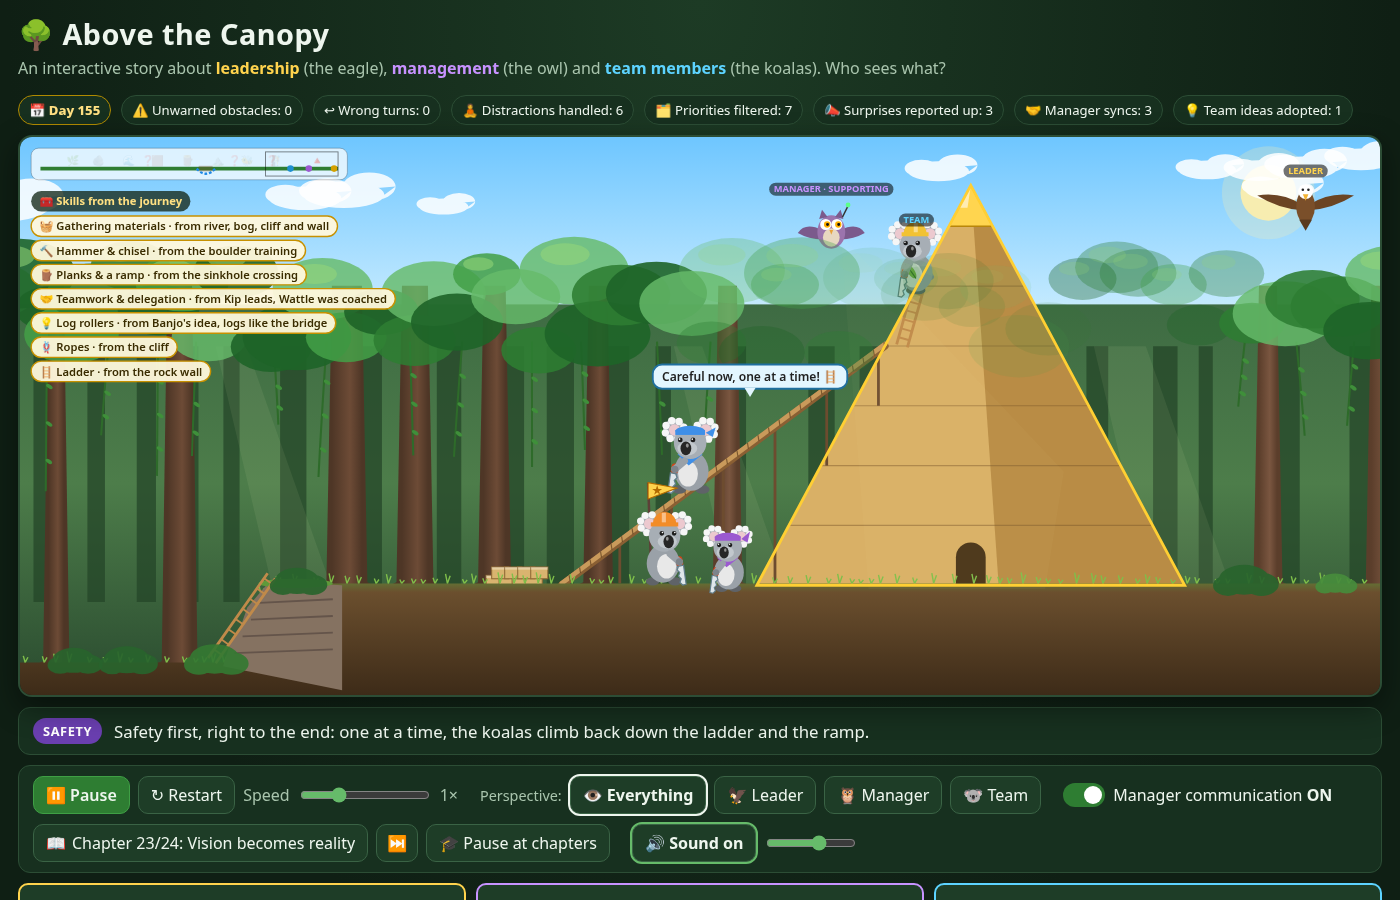
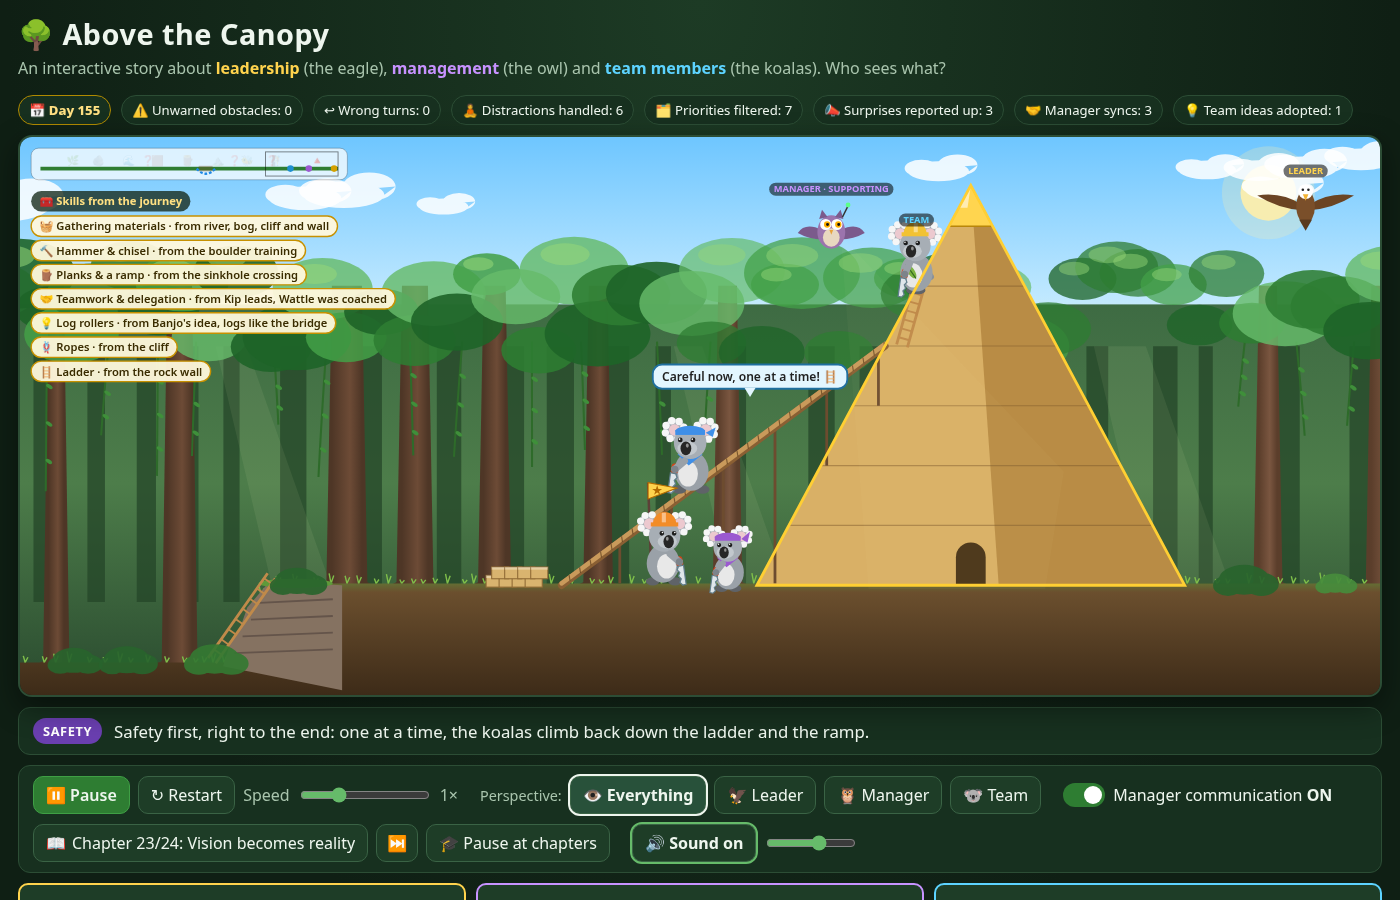
v7.2: pyramid in front of the canopy, dialogue filtered by perspective
- Build site (pyramid, koalas, gear, owl) drawn after the canopy so no leaves cut across the pyramid at any stage; vision overlay stays on top
- Leader/Manager/Team perspectives draw only that role's speech bubbles (simulation unchanged; captions and pulses kept); banner hint
- README, help text and docs images updated

diff --git a/src/AboveTheCanopy/wwwroot/js/canopy.js b/src/AboveTheCanopy/wwwroot/js/canopy.js
@@ -1761,7 +1761,7 @@ function drawCanopy() {
   const cols = ['rgba(46,125,50,0.88)', 'rgba(67,160,71,0.86)', 'rgba(30,100,40,0.9)', 'rgba(102,187,106,0.82)'];
   const thinK = S.build.on ? clamp((S.t - S.build.t0) / 2, 0, 1) : 0;
   // over the build site the leaves thin out (most of all around the top, where the koalas end up) so the build stays visible
-  const thinA = bx => { if (!thinK) return 1; const d = Math.abs(bx - GOAL_X); return d < 110 ? lerp(1, 0.14, thinK) : d < PYR_HALF + 60 ? lerp(1, 0.4, thinK) : 1; };
+  const thinA = bx => { if (!thinK) return 1; const d = Math.abs(bx - GOAL_X); return d < PYR_HALF + 60 ? lerp(1, 0.85, thinK) : 1; }; // v7.2: just a light thinning now; layering keeps the pyramid in front
   for (const b of deco.blobs) {
     const x = b.x - camX; if (x < -80 || x > viewW + 80) continue;
     ctx.globalAlpha = thinA(b.x);
@@ -1840,11 +1840,16 @@ function drawPulses() {
   }
 }
 
+// Which speakers' bubbles each perspective shows ('visitor' is the visiting owl in a manager meeting; the visiting
+// eagles in the Leader's meetings speak through their priority cards, which stay visible).
+const BUBBLE_VIEW = { all: null, leader: ['leader'], manager: ['manager', 'visitor'], team: ['team'] };
 function drawBubbles() {
   const cols = { leader: ['#fff7d6', '#b08a00'], manager: ['#f3e8ff', '#7b3fb0'], team: ['#e3f6ff', '#1f6f9f'],
     visitor: S.mgr.meeting ? [S.mgr.meeting.def.belly, S.mgr.meeting.def.body] : ['#eee', '#777'] };
   ctx.font = '600 13px system-ui, sans-serif';
+  const only = BUBBLE_VIEW[settings.view]; // v7.2: each perspective shows only that role's dialogue
   for (const b of S.bubbles) {
+    if (only && !only.includes(b.who)) continue;
     const p = agentPos(b.who);
     if (p.x - camX < -30 || p.x - camX > viewW + 30) continue; // speaker is off-screen
     const a = Math.min(1, b.t * 4, (b.dur - b.t) * 3);
@@ -1915,10 +1920,14 @@ function drawViewBanner() {
     manager: '🦉 MANAGER VIEW: sees the obstacles ahead, but not the far-off goal',
     team: '🐨 TEAM VIEW: the koalas see only what\'s right in front of them',
   }[v];
+  const hint = { leader: '💬 Showing only the Leader\'s dialogue', manager: '💬 Showing only the Manager\'s dialogue', team: '💬 Showing only the koalas\' dialogue' }[v];
   ctx.font = 'bold 14px system-ui, sans-serif';
-  const w = ctx.measureText(text).width + 24;
-  ctx.fillStyle = 'rgba(0,0,0,0.6)'; rr(12, H - 40, w, 28, 14); ctx.fill();
-  ctx.fillStyle = '#fff'; ctx.fillText(text, 24, H - 21);
+  const w1 = ctx.measureText(text).width;
+  ctx.font = '600 12px system-ui, sans-serif';
+  const w = Math.max(w1, ctx.measureText(hint).width) + 24;
+  ctx.fillStyle = 'rgba(0,0,0,0.6)'; rr(12, H - 58, w, 46, 14); ctx.fill();
+  ctx.fillStyle = '#fff'; ctx.font = 'bold 14px system-ui, sans-serif'; ctx.fillText(text, 24, H - 39);
+  ctx.fillStyle = '#ffe082'; ctx.font = '600 12px system-ui, sans-serif'; ctx.fillText(hint, 24, H - 20);
 }
 
 function frame(ts) {
@@ -2901,7 +2910,6 @@ function render() {
   drawSky();
   drawUnderstory();
   drawTrunks();
-  drawBuild();
   drawHangingVines();
   drawRiver(false);
   drawGround();
@@ -2914,8 +2922,10 @@ function render() {
   drawSurprises();
   drawCreek();
   drawLantana();
-  drawTeam();
-  drawBuildFront();
+  // v7.2: once the build starts, the pyramid and everyone working on it are drawn after the canopy (see below),
+  // so no leaves, trunks or light shafts ever cut across it.
+  const site = S.build.on;
+  if (!site) drawTeam();
   drawSurpriseMarkers();
   drawBees(true);
   drawRiver(true);
@@ -2925,11 +2935,15 @@ function render() {
   drawPathBushes();
   drawRubble();
   drawSurprises(true);
-  drawKoalaLabels();
+  if (!site) drawKoalaLabels();
   drawDrop('gap');
-  drawManager();
+  if (!site) drawManager();
   drawMgrMeeting();
   drawCanopy();
+  // The build site, in front of the canopy behind it: pyramid (courses, casing, cap, ramp, ladder, pile), then the koalas
+  // and the gear they're carrying, then the owl helping out. The vision outline goes on top, like a blueprint overlay.
+  drawBuild();
+  if (site) { drawTeam(); drawBuildFront(); drawKoalaLabels(); drawManager(); }
   drawVision();
   drawDrop('crate');
   drawLeafFly();

diff --git a/README.md b/README.md
@@ -22,7 +22,7 @@ Nobody can see the whole picture on their own:
 - The **team** can see neither. They're down in the bush doing the work.
 
 The journey works when vision flows down (leader ➜ manager), warnings and plans flow down to the team (manager ➜ team), and requests and progress flow back up (team ➜ manager ➜ leader).
-Use the **Perspective** buttons to see the world through each role's eyes, and turn **Manager communication OFF**
+Use the **Perspective** buttons to see the world through each role's eyes (each view also shows only that role's speech bubbles, so you can rewatch with one perspective to focus on that role's communication), and turn **Manager communication OFF**
 to watch the same koalas in the same forest get surprised, take wrong turns and take much longer (about 202 days instead of about 157), and even build the wrong shape.
 
 ## What happens on the journey
@@ -120,6 +120,26 @@ sweat drops fly, and they slow right down to the finish (😓 **EXHAUSTED**). Th
 (meetings, surprises, coaching, course corrections) are never cut off by routine narration.
 
 **Rubble stays.** After the boulder is broken up, the rubble is swept to the side of the path and stays visible.
+
+## New in v7.2: dialogue by perspective
+
+Each perspective now shows only that role's speech bubbles, so you can **rewatch the story with one perspective to focus on that role's communication**:
+
+| Perspective | Speech bubbles shown |
+|---|---|
+| 👁 Everything | Everyone (unchanged) |
+| 🦅 Leader | The Leader eagle (the visiting eagles in the Leader's meetings still show their priority cards) |
+| 🦉 Manager | The Manager owl, plus the visiting owls in manager meetings |
+| 🐨 Team | The koalas |
+
+The other roles keep talking in the simulation (nothing changes in the story), their bubbles just aren't drawn. The caption bar and the message pulses
+still show that messages are flowing, the fog for each view is unchanged, and the view banner says what's shown (*"💬 Showing only the Leader's dialogue"*).
+Switching is instant, mid-run, and works with chapter jumps and teaching mode.
+
+![A surprise escalation in the Leader view: only the eagle's reply is shown](docs/perspective-leader-dialogue.png)
+
+The pyramid is also drawn in front of the canopy behind it at every stage of the build (and the koalas, ladder, ramp and owl in front of the pyramid),
+so no leaves or tree tops cut across it.
 
 ## New in v7: the koalas build the final product
 
@@ -354,7 +374,7 @@ Use the speed slider (0.25× to 3×) to fit your session.
 | ▶ Play / ⏸ Pause | Start or stop the animation (keyboard: <kbd>Space</kbd>) |
 | ↻ Restart | Start the journey again (<kbd>R</kbd>) |
 | Speed slider | 0.25× to 3× |
-| Perspective: Everything / Leader / Manager / Team | Fogs out what that role **can't** see (<kbd>1</kbd> to <kbd>4</kbd>) |
+| Perspective: Everything / Leader / Manager / Team | Fogs out what that role **can't** see, and shows only that role's dialogue (<kbd>1</kbd> to <kbd>4</kbd>) |
 | Manager communication ON/OFF | When OFF, the manager still spots obstacles but never tells the koalas |
 | Click the eagle, owl, koalas or pyramid | Opens an info card about that role |
 | Hover over a koala | Shows its name (Kip, Banjo, Matilda or Wattle) |
